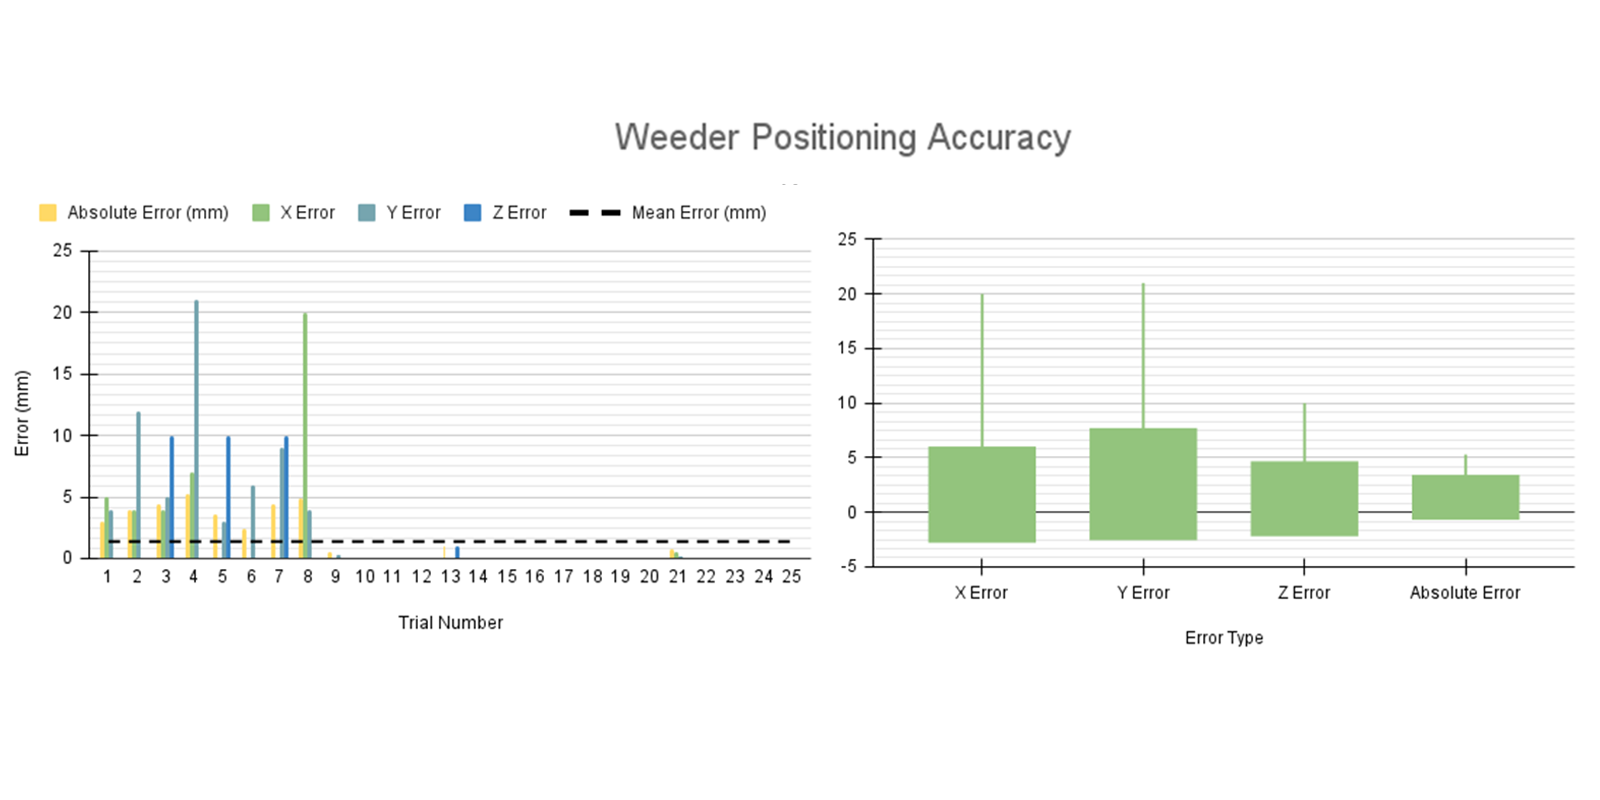
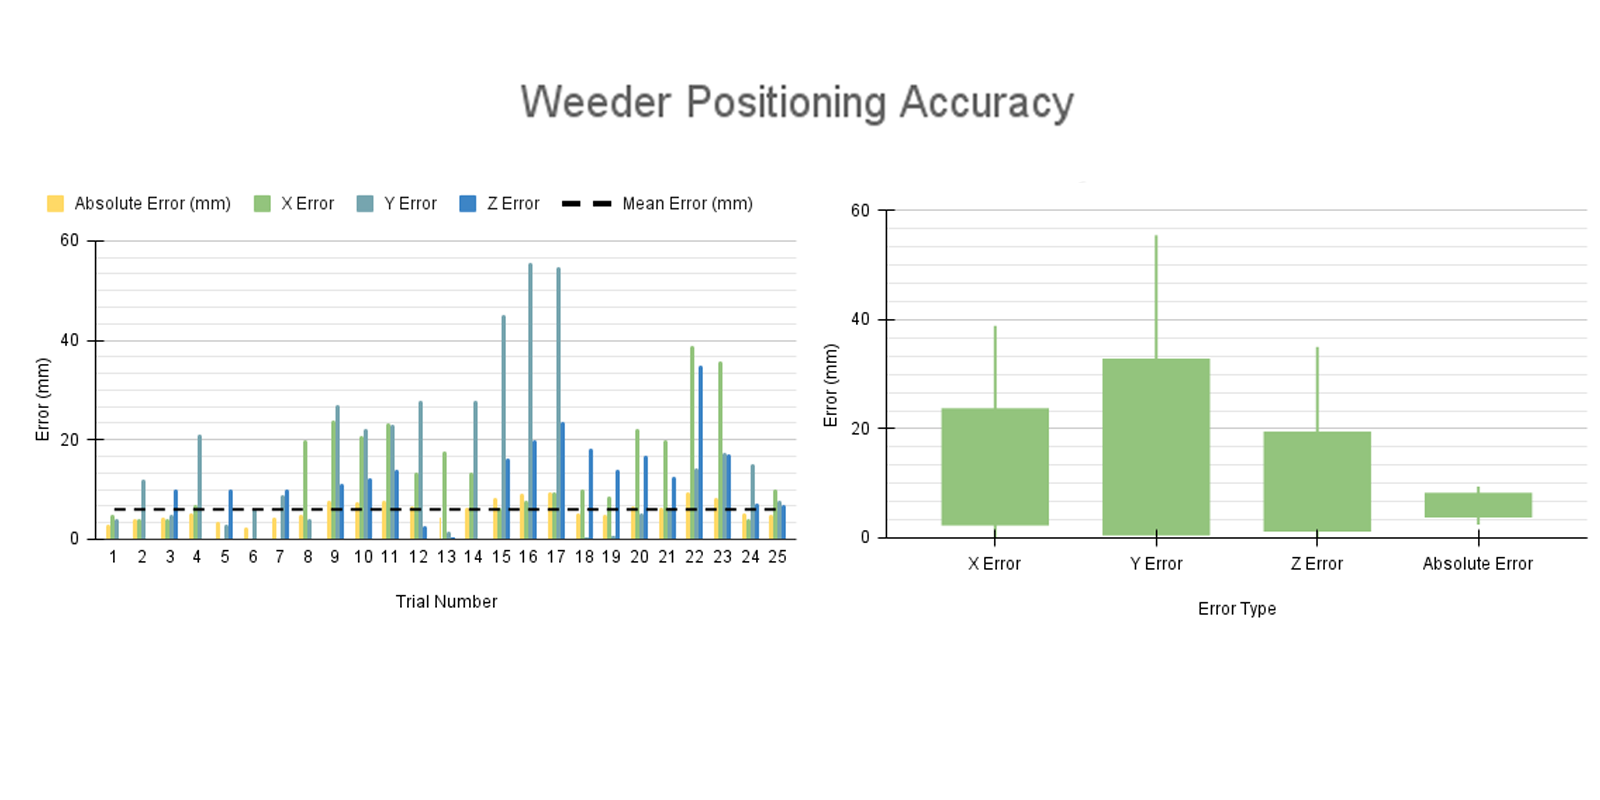
add new arm evaluation graph and content for weeder arm

diff --git a/docs/mech-weeder.html b/docs/mech-weeder.html
@@ -74,7 +74,7 @@
                 <div id="content">
                     <!-- Content -->
                     <article class="flex-container">
-                        <span class="image featured right"><img src="images/img-placeholder.png" alt="" /></span>
+                        <span class="image featured right"><img src="images/subsystem-diagram/mech-weeder-1.png" alt="" /></span>
                         <div class="text-content">
                             <h3>Weeder Arm</h3>
                             <p>
@@ -160,11 +160,12 @@
                         <div class="text-content">
                             <h3>Evaluation: Weeder Arm</h3>
                             <p>
-                                The Phoenixbot must be able to precisely move the weeding claw into positions 
-                                given by the plant ID pipeline to ensure it can remove weeds while avoiding crop damage.
+                                The weeder arm must be able to accurately move the weeder claw into positions 
+                                given by the plant ID pipeline to ensure it can remove weeds without damaging crops.
                                 Using a testing grid with known locations, the weeder arm was commanded to move the claw to specific positions in Cartesian space. 
                                 After each motion, the final position was compared to the true position to assess accuracy. 
-                                Twenty-five trials were conducted to evaluate the weeder arm’s effective work envelope.
+                                During twenty-five trials, the weeder arm was capable 
+                                of positioning the claw with a mean error of 6.009 mm from the commanded position.
                             </p>
                         </div>
 
